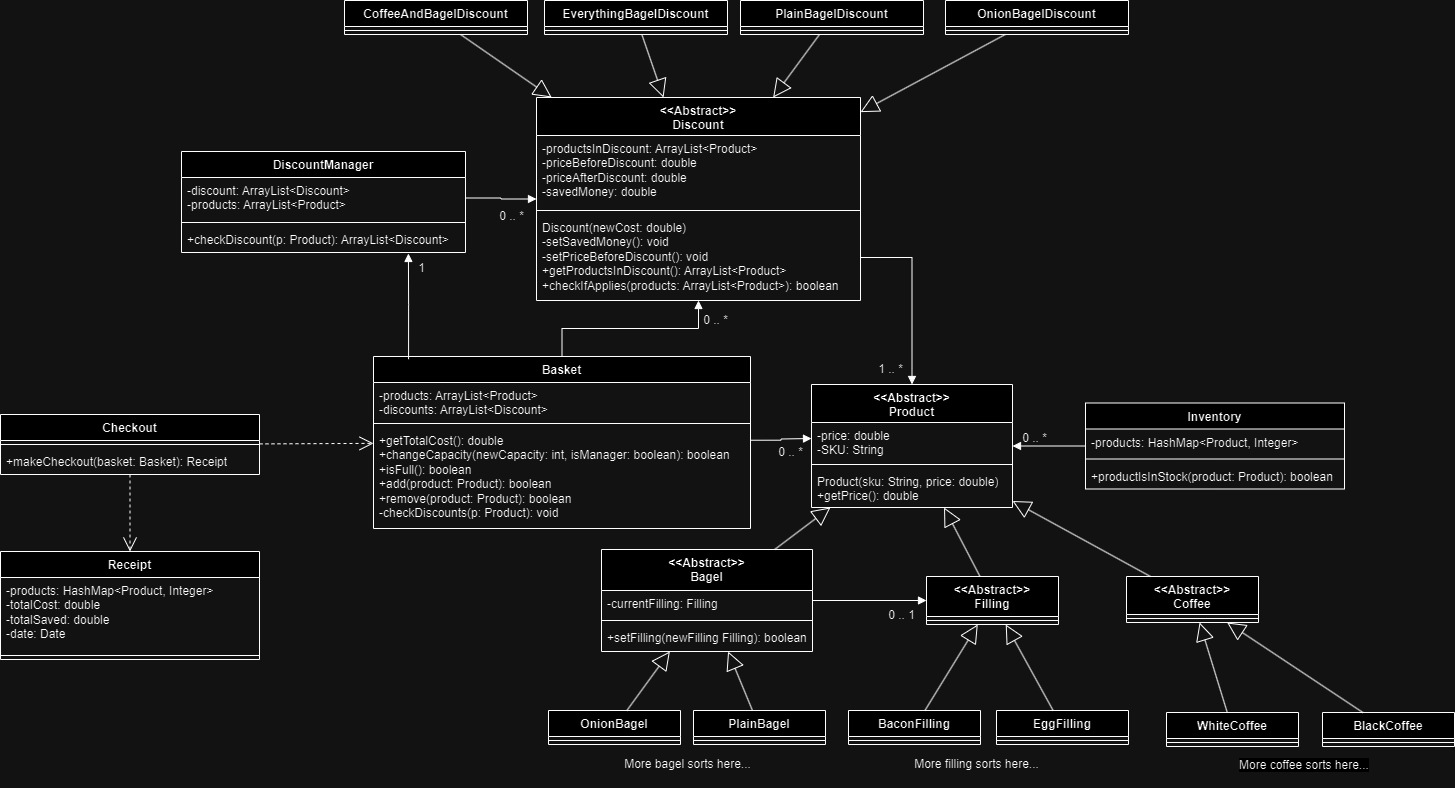
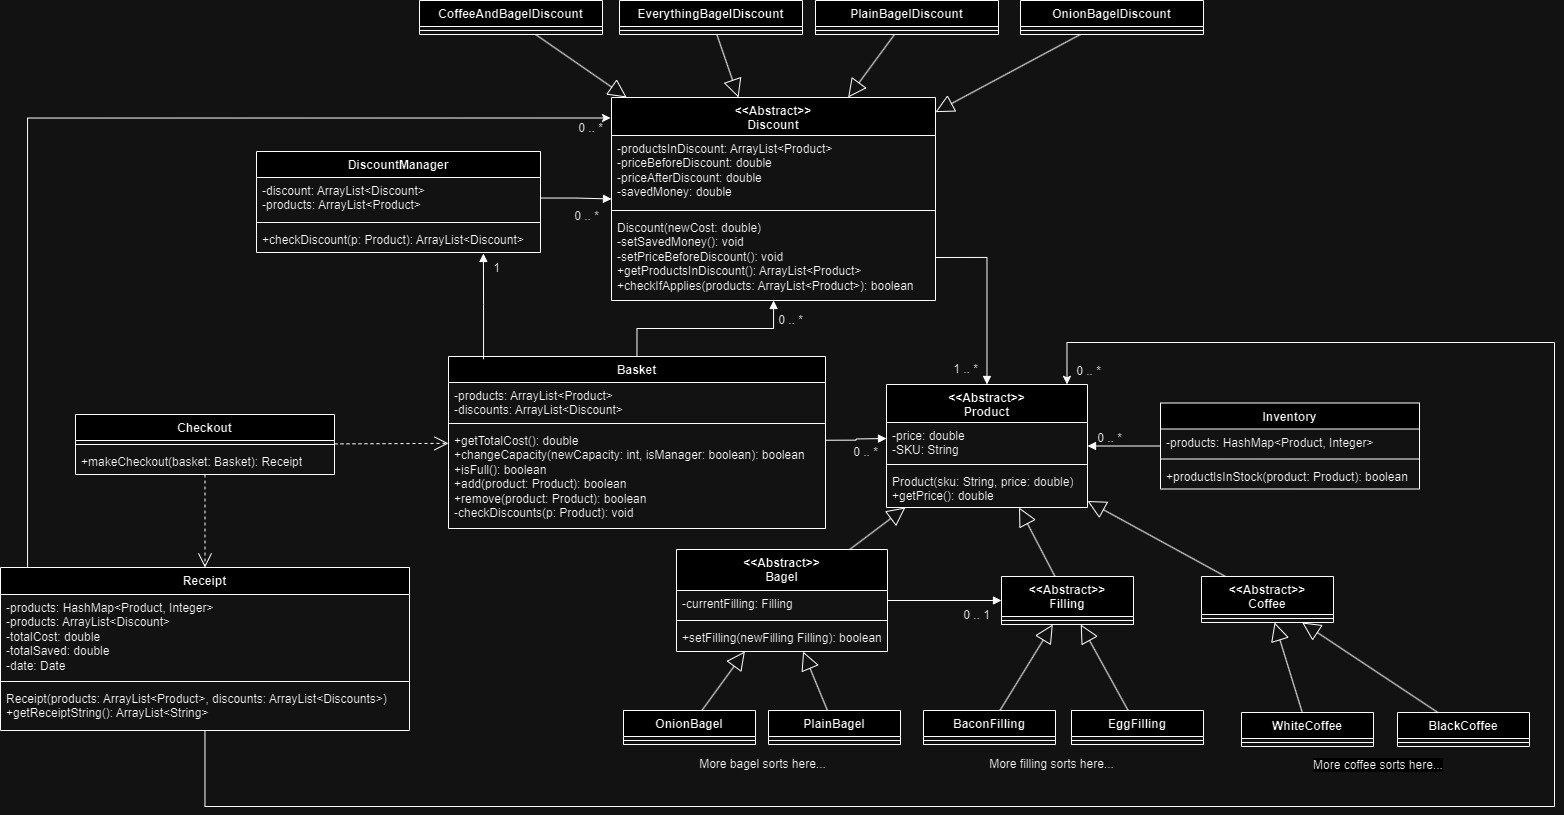
Update class diagram and domain model slightly.

diff --git a/domain-model.md b/domain-model.md
@@ -3,6 +3,8 @@
 Assuming that
 
 - A bagel can only have 0 or 1 filling
+- Maximum of one discount type per basket/order. E.g. if basket has 2 bagel and 2 coffees, then there 
+will only be one "Coffee & Bagel for 1.25" discount.
 
 ## User Stories for extension
 
@@ -56,18 +58,18 @@ Inventory class:
 
 Basket class:
 
-| Member variables                           | Methods                                              | Scenario                                                                           | Outputs |
-|--------------------------------------------|------------------------------------------------------|------------------------------------------------------------------------------------|---------|
-| `ArrayList<Product>`                       | `add(Product product)`                               | Successfully product added to basket                                               | true    |
-| `ArrayList<Product>`                       | `remove(Product product)`                            | Successfully removed from basket                                                   | true    |
-|                                            |                                                      | Failed to remove from basket                                                       | false   |
-|                                            | `isFull()`                                           | Basket is full                                                                     | true    |
-|                                            |                                                      | Basket is not full                                                                 | false   |
-| `maxCapacity`                              | `changeCapacity(int newCapacity, boolean isManager)` | Successfully changed capacity of baskets                                           | true    |
-|                                            |                                                      | Failed to change capacity of baskets (e.g., is not manager)                        | false   |
-| `ArrayList<Product>`                       | `getTotalCost()`                                     | there is atleast one product in the basket                                         | double  |
-|                                            |                                                      | there are no products in the basket                                                | 0       |
-| `ArrayList<Product>`, `ArrayList<Product>` | `checkDiscounts(Product p)`                          | a product was added to the basket and it should be checked for potential discounts | -       |
+| Member variables                            | Methods                                              | Scenario                                                                           | Outputs |
+|---------------------------------------------|------------------------------------------------------|------------------------------------------------------------------------------------|---------|
+| `ArrayList<Product>`                        | `add(Product product)`                               | Successfully product added to basket                                               | true    |
+| `ArrayList<Product>`                        | `remove(Product product)`                            | Successfully removed from basket                                                   | true    |
+|                                             |                                                      | Failed to remove from basket                                                       | false   |
+|                                             | `isFull()`                                           | Basket is full                                                                     | true    |
+|                                             |                                                      | Basket is not full                                                                 | false   |
+| `maxCapacity`                               | `changeCapacity(int newCapacity, boolean isManager)` | Successfully changed capacity of baskets                                           | true    |
+|                                             |                                                      | Failed to change capacity of baskets (e.g., is not manager)                        | false   |
+| `ArrayList<Product>`                        | `getTotalCost()`                                     | there is atleast one product in the basket                                         | double  |
+|                                             |                                                      | there are no products in the basket                                                | 0       |
+| `ArrayList<Product>`, `ArrayList<Discount>` | `checkDiscounts(Product p)`                          | a product was added to the basket and it should be checked for potential discounts | -       |
 
 Product class:
 
